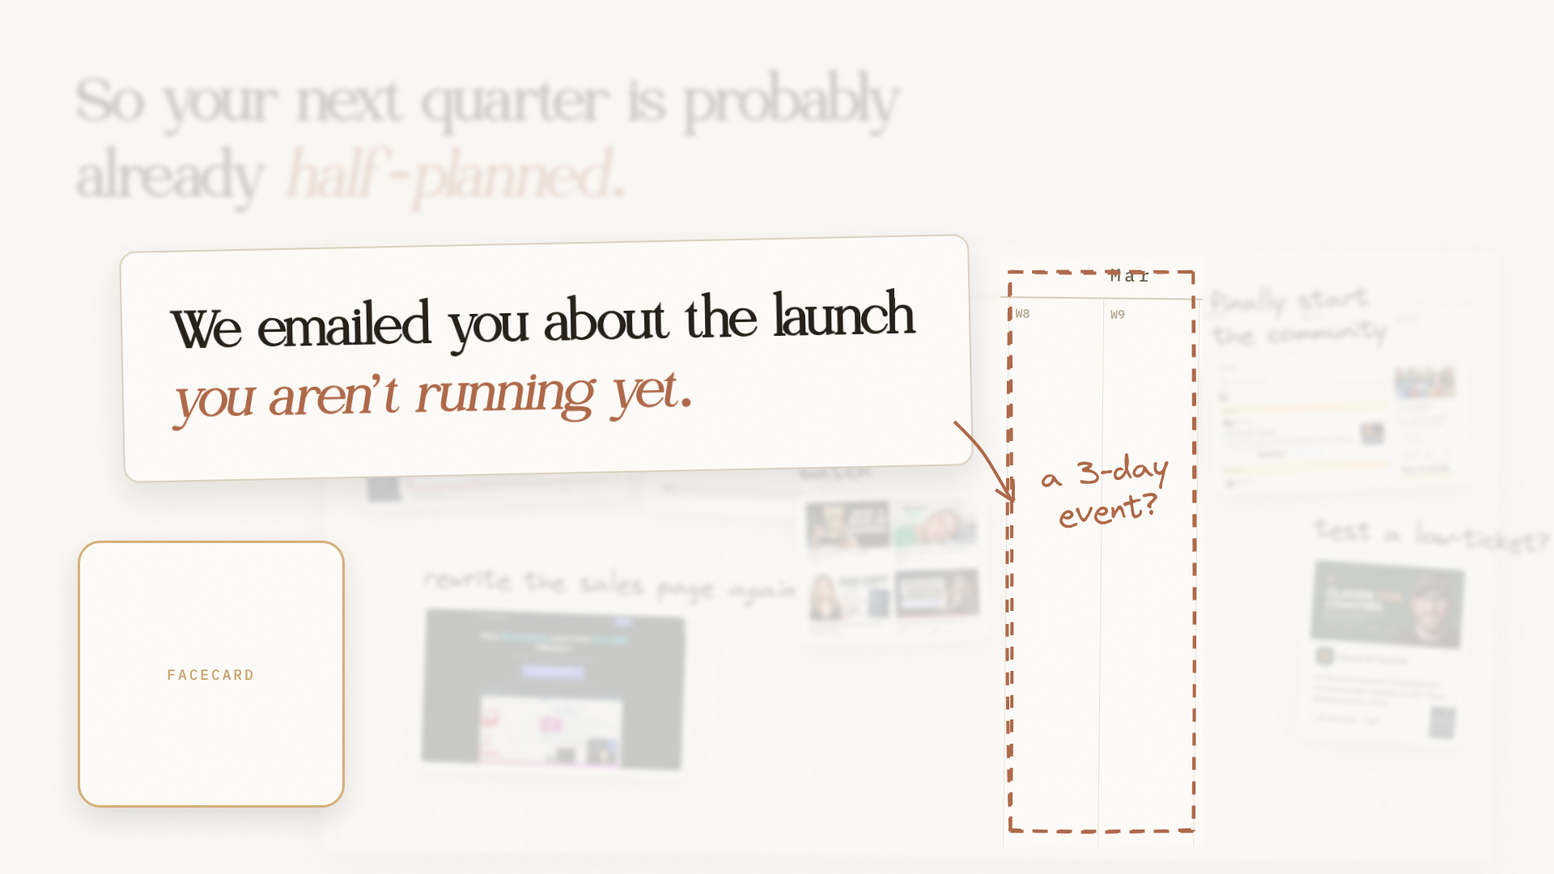
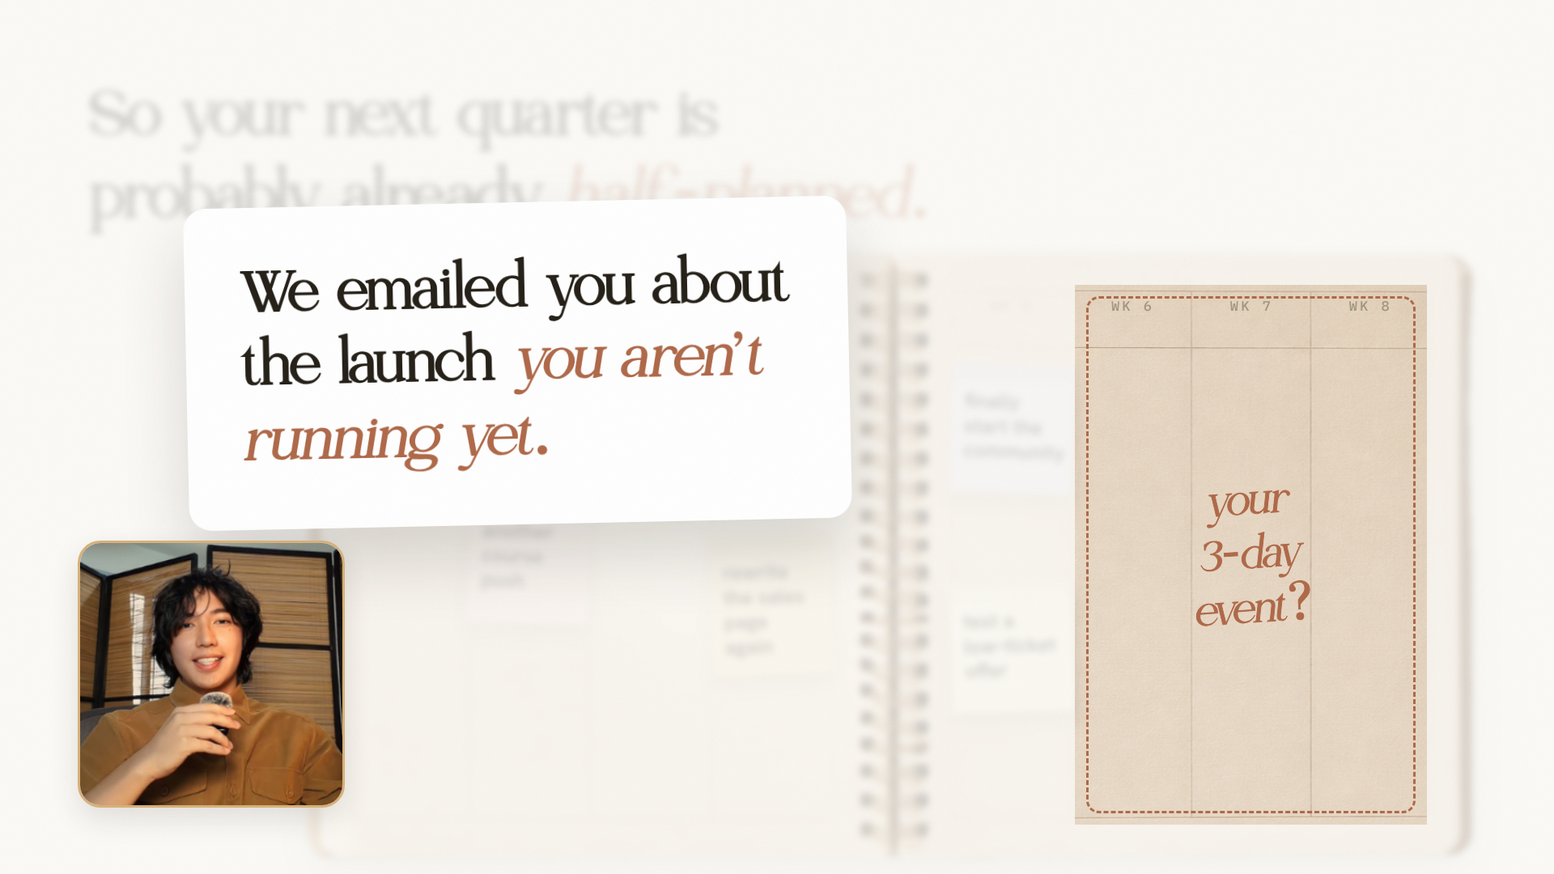
VSL opening, round 4: clean and crafted, one photo object per slide
- art/photo/: envelope and planner, generated in Canva, exported full size, cut out with rembg
- vsl-opening.html: the email (envelope + notification), the half-planned quarter (planner,
  stickies snapped to weeks 1-5), the reveal (80% wash, weeks 6-8 left sharp), three things
- rules/slide-method.md and rulings.md: round 3 rejected as messy; the nicely-made rules

Claude-Session: https://claude.ai/code/session_011DXSQiHkohnvERXvgbS9yh

diff --git a/templates/youtube/vsl-opening.html b/templates/youtube/vsl-opening.html
@@ -1,155 +1,118 @@
 <!doctype html>
-<html><head><meta charset="utf-8"><title>VSL opening: round 3</title>
+<html><head><meta charset="utf-8"><title>VSL opening: round 4</title>
 <link rel="stylesheet" href="theme.css">
 <script src="lib/rough.js"></script>
 <script src="ink.js"></script>
 <style>
-.h1 { position: absolute; left: 96px; top: 78px; font-size: 90px; z-index: 20; }
+/* Round 4 (2026-10-28, after "it looks messy... doesn't look nicely made"): one focal object per slide, shot
+   like a product photo; wide margins; one precise hand mark at most; the face in its card. */
+.hl { position: absolute; font-size: 112px; z-index: 20; }
+.u { position: relative; white-space: nowrap; }
+.u svg { position: absolute; left: -1%; width: 102%; bottom: -.12em; height: .2em; overflow: visible; }
+.u path { fill: none; stroke: var(--accent); stroke-width: 5px; stroke-linecap: round; vector-effect: non-scaling-stroke; }
+.photo { position: absolute; display: block; filter: drop-shadow(0 28px 34px rgba(38,33,25,.16)) drop-shadow(0 4px 6px rgba(38,33,25,.10)); }
 
-/* ---------- 1. the inbox ----------
-   Belief: "this is for me, they picked me". Jason 19:05: show it in the reality it lives in (he typed the real
-   YouTube search instead of an AI picture). So: their real inbox, our email among the others, circled by hand. */
-.mail { position: absolute; left: 392px; top: 330px; width: 1450px; background: #fff; border-radius: 18px; transform: rotate(-1.1deg);
-  box-shadow: 0 30px 70px rgba(38,33,25,.16), 0 0 0 1px #e6e0d4; overflow: hidden; z-index: 10; font-family: var(--body); color: #202124; }
-.mail .bar { height: 76px; display: flex; align-items: center; gap: 22px; padding: 0 30px; border-bottom: 1px solid #eceae4; }
-.mail .burger { width: 26px; height: 18px; border-top: 3px solid #5f6368; border-bottom: 3px solid #5f6368; position: relative; }
-.mail .burger::after { content: ""; position: absolute; left: 0; right: 0; top: 4.5px; border-top: 3px solid #5f6368; }
-.mail .logo { font-size: 28px; color: #5f6368; font-weight: 500; letter-spacing: -.01em; }
-.mail .search { margin-left: 70px; flex: 1; max-width: 780px; height: 50px; border-radius: 25px; background: #eef1f5; display: flex; align-items: center; padding: 0 26px; color: #6b6f75; font-size: 22px; }
-.mail .tabs { display: flex; height: 58px; border-bottom: 1px solid #eceae4; font-size: 20px; color: #5f6368; }
-.mail .tabs div { width: 260px; display: flex; align-items: center; padding-left: 30px; }
-.mail .tabs .on { color: #0b57d0; box-shadow: inset 0 -3px 0 #0b57d0; font-weight: 600; }
-.mail .row { display: grid; grid-template-columns: 300px 1fr 150px; align-items: center; height: 68px; padding: 0 30px; border-bottom: 1px solid #f1efea; font-size: 22px; color: #3c4043; }
-.mail .row .who { font-weight: 400; white-space: nowrap; overflow: hidden; }
-.mail .row .what { white-space: nowrap; overflow: hidden; text-overflow: ellipsis; color: #5f6368; }
-.mail .row .what b { color: #3c4043; font-weight: 400; }
-.mail .row .when { text-align: right; font-size: 19px; color: #5f6368; }
-.mail .row.us { background: #fff8e6; color: #111; }
-.mail .row.us .who, .mail .row.us .what b, .mail .row.us .when { font-weight: 700; color: #111; }
-.mail .row.us .who::before { content: ""; display: inline-block; width: 30px; height: 30px; border-radius: 50%; vertical-align: -7px; margin-right: 12px;
-  background: url(art/sean-avatar.png) center/cover, #d8b27a; }
-.s-inbox .note { position: absolute; left: 1470px; top: 214px; transform: rotate(-4deg); z-index: 46; }
+/* 1. the email. Jason 19:05: show it where it lives. The envelope is the feeling, the notification is the proof. */
+.v1 .hl { left: 112px; top: 160px; font-size: 104px; }
+.v1 .env { left: 1000px; top: 170px; width: 870px; transform: rotate(-4deg); }
+.v1 .note { position: absolute; left: 1010px; top: 560px; width: 800px; padding: 34px 40px 38px; background: #fff; border-radius: 28px;
+  box-shadow: 0 34px 60px rgba(38,33,25,.16), 0 2px 0 rgba(38,33,25,.04); transform: rotate(1.6deg); z-index: 25; font-family: var(--body); }
+.v1 .note .top { display: flex; align-items: center; gap: 18px; }
+.v1 .note .av { width: 66px; height: 66px; border-radius: 50%; background: url(art/sean-face-preview.png) center 30%/cover; }
+.v1 .note .who { font-size: 30px; font-weight: 650; color: var(--ink); }
+.v1 .note .when { margin-left: auto; font-size: 24px; color: #8C8576; }
+.v1 .note .subj { font-size: 35px; font-weight: 650; color: var(--ink); margin-top: 22px; letter-spacing: -.005em; }
+.v1 .note .snip { font-size: 28px; color: var(--quiet); margin-top: 8px; line-height: 1.4; }
+.v1 .note .u path { stroke-width: 4px; }
 
-/* ---------- 2. the half-planned quarter ----------
-   Belief: "my next quarter is already full, so a new thing feels heavy". Note from the brief: messy, like a draft,
-   each item pops up. Show it as their actual planner, half filled with the real work (real screenshots). */
-.planner { position: absolute; left: 400px; top: 300px; width: 1450px; height: 760px; background: var(--card); border-radius: 14px;
-  box-shadow: 0 26px 60px rgba(38,33,25,.13), 0 0 0 1.5px #e2dacb; transform: rotate(.6deg); z-index: 5; overflow: hidden; }
-.planner .months { display: grid; grid-template-columns: repeat(3, 1fr); margin: 0 20px; border-bottom: 2px solid #d9d0bf; }
-.planner .months div { font-family: var(--label); font-size: 22px; letter-spacing: .2em; color: var(--quiet); padding: 22px 0 14px 8px; }
-.planner .months div:first-child::before { content: "Q1 \00B7  "; color: var(--accent); }
-.planner .weeks { position: absolute; left: 20px; right: 20px; top: 66px; bottom: 0; display: grid; grid-template-columns: repeat(12, 1fr); }
-.planner .weeks div { border-left: 1.5px solid #ece5d7; font-family: var(--label); font-size: 15px; color: #b3a891; padding: 10px 0 0 8px; }
-.item { position: absolute; z-index: 12; }
-.item .lab { font-family: "Hand"; font-size: 32px; color: var(--ink); margin: 0 0 8px 6px; white-space: nowrap; }
-.item .pic { background: #fff; padding: 9px; border-radius: 10px; box-shadow: 0 14px 30px rgba(38,33,25,.15); }
-.item .pic img { display: block; width: 100%; border-radius: 6px; }
-.item .tape { width: 110px; height: 34px; left: 50%; top: 30px; margin-left: -55px; }
-.s-quarter .note { position: absolute; left: 1490px; top: 980px; transform: rotate(-3deg); z-index: 46; font-size: 36px; }
+/* 2. the half-planned quarter. Brief: each item pops up. Their planner, half full; the right page left open. */
+.v2 .hl, .v3 .hl { left: 112px; top: 92px; font-size: 96px; }
+.planner { position: absolute; left: 380px; top: 310px; width: 1440px; z-index: 5; }
+.planner img { width: 100%; display: block; filter: drop-shadow(0 26px 34px rgba(38,33,25,.15)) drop-shadow(0 3px 5px rgba(38,33,25,.08)); }
+.planner .wk { position: absolute; top: 7.6%; font-family: var(--label); font-size: 17px; letter-spacing: .18em; color: #A2977F; transform: translateX(-50%); }
+.sticky { position: absolute; width: 150px; min-height: 160px; padding: 32px 16px 20px; font-family: var(--body); font-size: 25px; line-height: 1.22;
+  font-weight: 620; color: var(--ink); box-shadow: 0 14px 22px rgba(38,33,25,.13), 0 1px 2px rgba(38,33,25,.12); z-index: 8; }
+.sticky::before { content: ""; position: absolute; left: 0; right: 0; top: 0; height: 22px; background: rgba(38,33,25,.045); }
+.s-sand { background: #F1E6CE; } .s-sage { background: #E2E4CF; } .s-blush { background: #F2DCD4; }
+.s-wheat { background: #F3E4C1; } .s-dusk { background: #E5E0EC; } .s-cream { background: #F6EFDD; }
 
-/* ---------- 3. the launch you are not running ----------
-   Jason 31:24: duplicate the slide, lay a ~80% white box over the old information, put the new line on top: a
-   dramatic reveal. The brief adds "blur the background". The empty weeks stay sharp: that is the launch. */
-.wash { position: absolute; inset: 0; z-index: 30; background: rgba(251,250,246,.80); backdrop-filter: blur(3px);
-  clip-path: path(evenodd, "M0 0H1920V1080H0Z M1236 318H1486V1046H1236Z"); }
-.reveal { position: absolute; left: 150px; top: 300px; width: 1050px; padding: 56px 60px 60px; z-index: 40; transform: rotate(-1.2deg); }
-.reveal .display { font-size: 80px; }
-.gapnote { position: absolute; left: 1262px; top: 560px; width: 210px; text-align: center; transform: rotate(-6deg); z-index: 46; font-size: 40px; }
+/* 3. the launch you are not running. Jason 31:24: the same slide under ~80% paper, the new line on top.
+   The empty right page stays sharp: that is the launch. */
+.wash { position: absolute; inset: 0; z-index: 30; background: rgba(251,250,246,.82); backdrop-filter: blur(4px);
+  clip-path: path(evenodd, "M0 0H1920V1080H0Z M1328 352H1763V1019H1328Z"); }
+.slot { position: absolute; left: 1342px; top: 366px; width: 407px; height: 639px; border: 3px dashed var(--accent); border-radius: 16px; z-index: 35;
+  display: flex; align-items: center; justify-content: center; }
+.slot span { font-family: var(--display-italic); font-size: 64px; color: var(--accent); -webkit-text-stroke: .015em currentColor; transform: rotate(-4deg); text-align: center; line-height: 1.05; }
+.reveal { position: absolute; left: 230px; top: 250px; padding: 60px 70px 66px; background: #fff; border-radius: 28px; z-index: 40;
+  box-shadow: 0 40px 80px rgba(38,33,25,.16); transform: rotate(-1.2deg); }
+.reveal .display { font-size: 88px; }
 
-/* ---------- 4. three things ----------
-   Brief: "I will add the animation, leave it blank, design the rest". Jason: lists read top to bottom, and the
-   number is not the important part, the things are; so the three slots carry the size. */
-.s-three .big3 { position: absolute; left: 96px; top: 40px; font-size: 400px; line-height: 1; color: var(--accent); }
-.s-three .t { position: absolute; left: 330px; top: 175px; font-size: 128px; }
-.s-three .slots { position: absolute; left: 110px; top: 438px; width: 800px; }
-.s-three .slot { display: flex; align-items: baseline; gap: 26px; height: 64px; margin-bottom: 8px; }
-.s-three .slot .n { font-family: var(--label); font-size: 28px; color: var(--accent); }
-.s-three .slot .what { font-family: "Hand"; font-size: 40px; color: #b8ae99; }
-.s-three .anim { position: absolute; left: 1010px; top: 150px; width: 820px; height: 800px; z-index: 3; display: flex; align-items: center; justify-content: center; }
-.s-three .anim span { font-family: "Hand"; font-size: 34px; color: #b8ae99; transform: rotate(-3deg); }
-.s-three .bloom { position: absolute; right: -30px; top: -40px; height: 260px; transform: rotate(18deg); z-index: 4; }
+/* 4. three things. Brief: the animation goes here, design the rest. Jason: the list reads top to bottom. */
+.v4 .hl { left: 112px; top: 150px; font-size: 150px; line-height: .98; }
+.v4 .stage { position: absolute; left: 900px; top: 120px; width: 908px; height: 840px; background: #fff; border-radius: 30px; z-index: 10;
+  box-shadow: 0 40px 80px rgba(38,33,25,.13); padding: 70px 80px; }
+.v4 .row { display: flex; align-items: center; gap: 34px; height: 233px; border-bottom: 2px solid #EEE8DC; }
+.v4 .row:last-child { border-bottom: 0; }
+.v4 .row .n { font-family: var(--display); font-size: 96px; color: var(--accent); -webkit-text-stroke: .02em currentColor; width: 110px; }
+.v4 .row .bar { height: 26px; border-radius: 13px; background: #F3EEE4; }
+.v4 .bloom { position: absolute; left: 1700px; top: 40px; height: 250px; transform: rotate(16deg); z-index: 9; }
 </style></head><body>
 
 <!-- 1 -->
-<section class="slide s-inbox" id="v1-inbox" data-ink='[
-  {"k":"ellipse","x":1188,"y":702,"w":1130,"h":112,"c":"rust","sw":4.6,"seed":3},
-  {"k":"arrow","d":[[1430,300],[1560,420],[1630,650]],"c":"rust","sw":4,"seed":5}
- ]'>
-  <h1 class="display h1">If you&rsquo;re watching this video,<br>it&rsquo;s because you&rsquo;ve seen <span class="em">our email.</span></h1>
-  <div class="mail">
-    <div class="bar"><div class="burger"></div><div class="logo">Mail</div><div class="search">Search mail</div></div>
-    <div class="tabs"><div class="on">Primary</div><div>Promotions</div><div>Updates</div></div>
-    <div class="row"><div class="who">Stripe</div><div class="what"><b>Your payout is on the way</b> - $4,812.40 will arrive in your bank account</div><div class="when">9:14 AM</div></div>
-    <div class="row"><div class="who">Skool</div><div class="what"><b>12 new posts in your community</b> - see what members are talking about</div><div class="when">8:52 AM</div></div>
-    <div class="row"><div class="who">Calendly</div><div class="what"><b>New event: podcast guest</b> - Thursday, 2:00 PM</div><div class="when">8:30 AM</div></div>
-    <div class="row us"><div class="who">Sean Canela</div><div class="what"><b>any plans for the program this spring?</b> - Hey, this is my 4th email about this, so I&rsquo;ll keep it short</div><div class="when">8:12 AM</div></div>
-    <div class="row"><div class="who">Kit</div><div class="what"><b>Your weekly broadcast stats</b> - 41% open rate on Tuesday&rsquo;s email</div><div class="when">Yesterday</div></div>
-    <div class="row"><div class="who">YouTube Studio</div><div class="what"><b>Your video is getting more views than usual</b></div><div class="when">Yesterday</div></div>
-    <div class="row"><div class="who">Teachable</div><div class="what"><b>You made a sale!</b> - Course: Start here</div><div class="when">Oct 26</div></div>
-    <div class="row"><div class="who">Google Calendar</div><div class="what"><b>Reminder: Q1 planning</b> - Friday</div><div class="when">Oct 25</div></div>
+<section class="slide v1" id="v1-you-saw-our-email">
+  <h1 class="display hl">If you&rsquo;re watching<br>this video, it&rsquo;s<br>because you&rsquo;ve seen<br><span class="em">our email.</span></h1>
+  <img class="photo env" src="art/photo/envelope.png" alt="">
+  <div class="note">
+    <div class="top"><div class="av"></div><div class="who">Sean Canela</div><div class="when">8:12 AM</div></div>
+    <div class="subj">any plans for the program this spring?</div>
+    <div class="snip">Hey, this is my <span class="u">4th<svg viewBox="0 0 300 10" preserveAspectRatio="none"><path d="M2,6 C60,2 110,9 150,5 C195,1 250,8 298,4"/></svg></span> email about this, so I&rsquo;ll keep it short.</div>
   </div>
-  <div class="hand rust note">this one.<br>(the 4th one)</div>
-  <div class="face"></div>
+  <div class="face"><img src="art/sean-face-preview.png" alt=""></div>
 </section>
 
 <!-- 2 -->
-<section class="slide s-quarter" id="v2-half-planned" data-ink='[
-  {"k":"under","x":555,"y":262,"w":470,"c":"rust","sw":4.4,"seed":11},
-  {"k":"scribble","x":1665,"y":930,"w":150,"h":18,"c":"ink","sw":3,"n":9,"seed":13}
- ]'>
-  <h1 class="display h1">So your next quarter is probably<br>already <span class="em">half-planned.</span></h1>
+<section class="slide v2" id="v2-half-planned">
+  <h1 class="display hl">So your next quarter is<br>probably already <span class="em u">half-planned.<svg viewBox="0 0 300 10" preserveAspectRatio="none"><path d="M2,6 C60,2 110,9 150,5 C195,1 250,8 298,4"/></svg></span></h1>
   <div class="planner" id="planner">
-    <div class="months"><div>Jan</div><div>Feb</div><div>Mar</div></div>
-    <div class="weeks"><div>W1</div><div>W2</div><div>W3</div><div>W4</div><div>W5</div><div>W6</div><div>W7</div><div>W8</div><div>W9</div><div>W10</div><div>W11</div><div>W12</div></div>
+    <img src="art/photo/planner.png" alt="">
+    <div class="wk" style="left:8.9%">WK 1</div><div class="wk" style="left:19%">WK 2</div><div class="wk" style="left:29.4%">WK 3</div><div class="wk" style="left:39.8%">WK 4</div>
+    <div class="wk" style="left:60.4%">WK 5</div><div class="wk" style="left:70.8%">WK 6</div><div class="wk" style="left:81%">WK 7</div><div class="wk" style="left:91.2%">WK 8</div>
   </div>
-  <div class="items" id="items">
-    <div class="item" style="left:440px;top:400px;width:330px;transform:rotate(-3deg)"><div class="lab">fix open rates</div><div class="pic"><img src="art/shots/email-open-rates-dashboard.png"></div></div>
-    <div class="item" style="left:800px;top:350px;width:220px;transform:rotate(2.6deg)"><div class="lab">another course push</div><div class="pic"><img src="art/shots/course-community-start-here.png"></div></div>
-    <div class="item" style="left:985px;top:520px;width:235px;transform:rotate(-2deg)"><div class="lab">next YouTube<br>batch</div><div class="pic"><img src="art/shots/youtube-thumbnail-batch.png"></div></div>
-    <div class="item" style="left:515px;top:700px;width:340px;transform:rotate(2deg)"><div class="lab">rewrite the sales page <i>again</i></div><div class="pic"><img src="art/shots/sales-page-60-creators.png"></div></div>
-    <div class="item" style="left:1495px;top:350px;width:320px;transform:rotate(-2.5deg)"><div class="lab">finally start<br>the community</div><div class="pic"><img src="art/shots/skool-community-feed.png"></div></div>
-    <div class="item" style="left:1610px;top:640px;width:205px;transform:rotate(4deg)"><div class="lab">test a low-ticket?</div><div class="pic"><img src="art/shots/low-ticket-claude-for-coaches.png"></div></div>
+  <div id="stickies">
+    <div class="sticky s-sand" style="left:433px;top:440px;transform:rotate(-2.2deg)">fix open rates</div>
+    <div class="sticky s-blush" style="left:579px;top:610px;transform:rotate(1.8deg)">another course push</div>
+    <div class="sticky s-sage" style="left:728px;top:455px;transform:rotate(1.2deg)">next YouTube batch</div>
+    <div class="sticky s-wheat" style="left:878px;top:660px;transform:rotate(-1.6deg)">rewrite the sales page again</div>
+    <div class="sticky s-dusk" style="left:1175px;top:450px;transform:rotate(2.0deg)">finally start the community</div>
+    <div class="sticky s-cream" style="left:1175px;top:720px;transform:rotate(-1.8deg)">test a low&#8209;ticket offer</div>
   </div>
-  <div class="hand note">and that&rsquo;s just Q1</div>
-  <div class="face"></div>
+  <div class="face"><img src="art/sean-face-preview.png" alt=""></div>
 </section>
 
 <!-- 3 -->
-<section class="slide s-quarter s-gap" id="v3-not-running-yet" data-ink='[
-  {"k":"box","x":1248,"y":336,"w":226,"h":690,"c":"rust","sw":4,"dash":[16,14],"seed":21,"r":1.6},
-  {"k":"arrow","d":[[1180,520],[1215,560],[1252,620]],"c":"rust","sw":4,"seed":22}
- ]'>
-  <h1 class="display h1">So your next quarter is probably<br>already <span class="em">half-planned.</span></h1>
+<section class="slide v3" id="v3-not-running-yet">
+  <h1 class="display hl">So your next quarter is<br>probably already <span class="em">half-planned.</span></h1>
   <div class="wash"></div>
-  <div class="card reveal"><div class="display">We emailed you about the launch <span class="em">you aren&rsquo;t running yet.</span></div></div>
-  <div class="hand rust gapnote">a 3-day event?</div>
-  <div class="face"></div>
+  <div class="slot"><span>your<br>3-day<br>event?</span></div>
+  <div class="reveal"><div class="display">We emailed you about<br>the launch <span class="em">you aren&rsquo;t<br>running yet.</span></div></div>
+  <div class="face"><img src="art/sean-face-preview.png" alt=""></div>
 </section>
 
 <!-- 4 -->
-<section class="slide s-three" id="v4-three-things" data-ink='[
-  {"k":"ellipse","x":215,"y":245,"w":300,"h":360,"c":"olive","sw":3.6,"seed":31},
-  {"k":"under","x":110,"y":498,"w":760,"c":"#d4c9b3","sw":2.4,"seed":32,"r":1},
-  {"k":"under","x":110,"y":570,"w":760,"c":"#d4c9b3","sw":2.4,"seed":33,"r":1},
-  {"k":"under","x":110,"y":642,"w":760,"c":"#d4c9b3","sw":2.4,"seed":34,"r":1},
-  {"k":"box","x":1010,"y":150,"w":820,"h":800,"c":"#cbbfa6","sw":3,"dash":[14,12],"seed":35,"r":1.2}
- ]'>
-  <div class="display big3">3</div>
-  <div class="display t">things:</div>
-  <div class="slots">
-    <div class="slot"><span class="n">01</span><span class="what">first thing</span></div>
-    <div class="slot"><span class="n">02</span><span class="what">second thing</span></div>
-    <div class="slot"><span class="n">03</span><span class="what">third thing</span></div>
-  </div>
-  <div class="anim"><span>animation goes here</span></div>
+<section class="slide v4" id="v4-three-things">
+  <h1 class="display hl">Three<br><span class="em">things:</span></h1>
   <img class="bloom" src="art/figma/stitch-flower-pink.png" alt="">
-  <div class="face"></div>
+  <div class="stage">
+    <div class="row"><div class="n">1</div><div class="bar" style="width:520px"></div></div>
+    <div class="row"><div class="n">2</div><div class="bar" style="width:430px"></div></div>
+    <div class="row"><div class="n">3</div><div class="bar" style="width:480px"></div></div>
+  </div>
+  <div class="face"><img src="art/sean-face-preview.png" alt=""></div>
 </section>
 
 <script>
-  // slide 3 is slide 2 under a wash: copy the planner and the items so the two never drift apart
-  const s3 = document.getElementById("v3-not-running-yet");
-  const first = s3.querySelector(".wash");
-  ["planner", "items"].forEach(id => s3.insertBefore(document.getElementById(id).cloneNode(true), first));
+  // slide 3 is slide 2 under a wash: copy the planner and stickies so the two never drift apart
+  const s3 = document.getElementById("v3-not-running-yet"), wash = s3.querySelector(".wash");
+  ["planner", "stickies"].forEach(id => s3.insertBefore(document.getElementById(id).cloneNode(true), wash));
 </script>
 </body></html>

diff --git a/rules/slide-method.md b/rules/slide-method.md
@@ -1,4 +1,4 @@
-# How a Fladdy slide is designed (round 3, 2026-10-28)
+# How a Fladdy slide is designed (round 4, 2026-10-28)
 
 Rounds 1 and 2 were rejected: "too much like Claude", "templateized", "not derived from Jason or Deya",
 "doesn't feel human-touched". This is the method that replaced them. Every slide goes through it.
@@ -24,19 +24,30 @@ Only then pick the layout.
 - The framework slide comes back each section with progress (23:20).
 - Tease later slides in the intro, cut off at the edge (3:01).
 
-## 3. What makes it look human (Deya, the brief, Mino)
+## 3. Nicely made first (round 4 ruling: "it looks messy... doesn't look nicely made")
+
+- **One focal object per slide, shot like a product photo**: a real-looking envelope, planner, phone. Generate
+  it (Canva generate-image; the brief: "combine it with Google Gemini AI for more realistic images"), export
+  it full size, cut it out (`rembg`, `isnet-general-use`), give it a soft two-layer drop shadow. These live
+  in `templates/youtube/art/photo/`.
+- **Wide margins (112px), nothing collides, the headline has its own space.** Headlines hand-broken.
+- **One precise hand mark at most**: the website's underline path (`.u`), never a scribble.
+- **No handwriting font, no messy collage.** Order with a slight tilt reads human; disorder reads unfinished.
+- **The facecard shows Sean's photo in previews** (`art/sean-face-preview.png`) so a slide reads as finished.
+- **Deliver each slide on its own**, full size, no contact-sheet frame.
+
+## 4. What makes it look human (Deya, the brief, Mino)
 
 - **The real artefact is the picture**: Deya shows her actual task list, her actual bookshelf.
-- **Messy on purpose** where the brief says so: "dapat messy looking... mukhang draft". Things taped at
-  angles, overlapping, labels written by hand, not a grid of equal cards.
+- ~~Messy on purpose~~ (tried in round 3 from the brief's "messy looking" note; Sean rejected it). A slight
+  tilt on each sticky or card is enough.
 - **Hand marks are drawn, not shapes**: circles, underlines, arrows and boxes come from `ink.js` (rough.js),
   or are the real hand-drawn marks from Figma. A circle never crosses the letters it marks.
-- **Notes in a hand**: short asides in Virgil (Excalidraw's hand, the Mino whiteboard look): "this one.",
-  "and that's just Q1". They talk like Sean talks.
+- Hand notes in Virgil are for the Figma whiteboards (Mino look) only, not for the Canva title pages.
 - **The face is part of it**: the facecard overlaps the inbox, sits in front of the planner. Same spot on
   every slide (the brief: space for Sean's facecard), but things touch it.
 
-## 4. The tells of a template (never)
+## 5. The tells of a template (never)
 
 - the label / headline / italic line stack on every slide
 - a row of identical cards, evenly spaced

diff --git a/rulings.md b/rulings.md
@@ -11,3 +11,4 @@ the standard, Sean's words, what it changes.
 | 2026-10-28 | Olivera licence | "why are we going to buy Olivera? We're not even going to sell it" | use the demo; headlines work around its missing punctuation |
 | 2026-10-28 | YouTube slides | "a little bit simpler and not overly after-harvest... adaptable to different stuff... just the foundations" | one theme file; layouts do not depend on After Harvest art |
 | 2026-10-28 | Rounds 1-2 rejected | "too much like Claude... templateized... not derived from the transcripts... doesn't feel human-touched. Maybe we could use more brain in the layouts" | rules/slide-method.md |
+| 2026-10-28 | Round 3 rejected | "It looks messy. It doesn't really look great... It doesn't look nicely made... remove the gray border around it" | clean and crafted beats messy: one focal photo object, wide margins, one precise mark at most, no handwriting font; slides delivered one by one, no contact-sheet frame |
